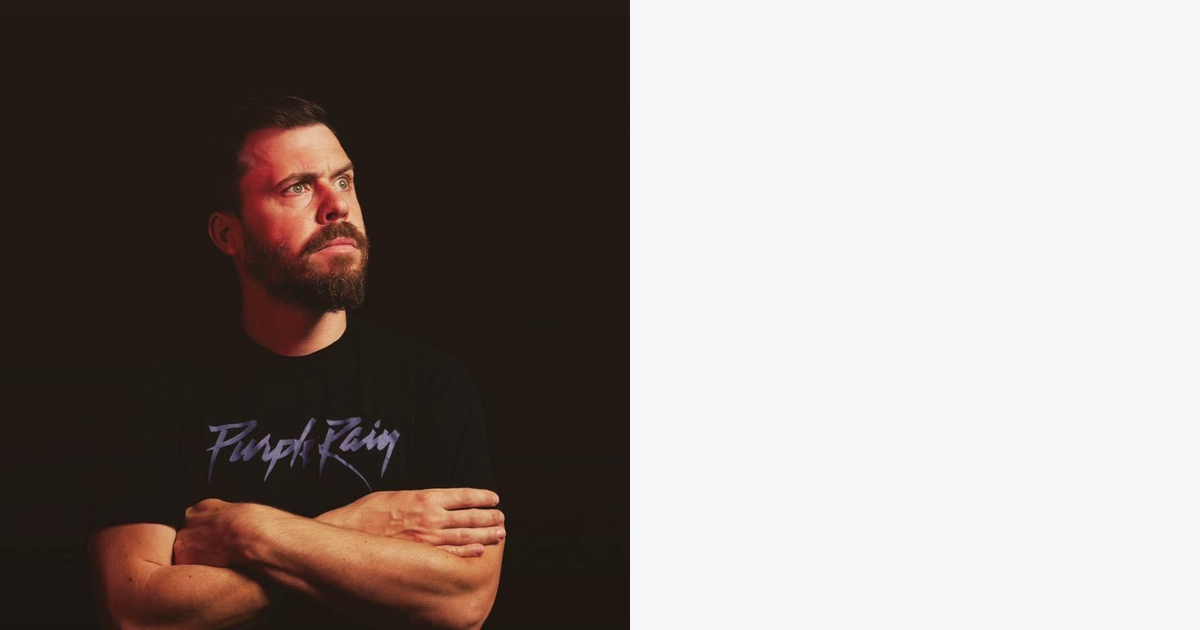
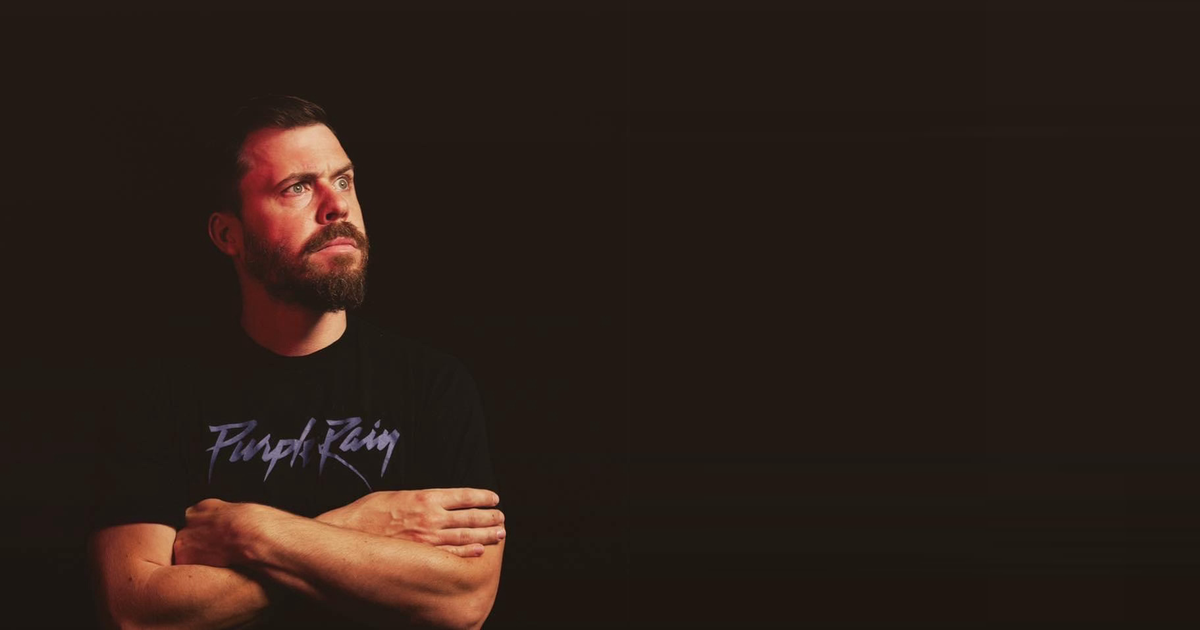
OG: full-bleed photo with extended dark backdrop

diff --git a/chapters/01-meta.html b/chapters/01-meta.html
@@ -16,7 +16,7 @@
   <meta property="og:title" content="Architecting Meta's Support — Paul Petrowsky">
   <meta property="og:description" content="A five year focus on Integrity and support — from individual resolution flows to the AI assistant rolling out to billions.">
   <meta property="og:url" content="https://paulpetrowsky.com/chapters/01-meta.html">
-  <meta property="og:image" content="https://paulpetrowsky.com/og-image.png?v=4">
+  <meta property="og:image" content="https://paulpetrowsky.com/og-image.png?v=5">
   <meta property="og:image:width" content="1200">
   <meta property="og:image:height" content="630">
   <meta property="og:image:alt" content="Paul Petrowsky — Principal Product Designer at Meta.">
@@ -25,7 +25,7 @@
   <meta name="twitter:card" content="summary_large_image">
   <meta name="twitter:title" content="Architecting Meta's Support — Paul Petrowsky">
   <meta name="twitter:description" content="A five year focus on Integrity and support across the largest social platforms in the world.">
-  <meta name="twitter:image" content="https://paulpetrowsky.com/og-image.png?v=4">
+  <meta name="twitter:image" content="https://paulpetrowsky.com/og-image.png?v=5">
 
   <meta name="theme-color" content="#F6F6F8">
 

diff --git a/index.html b/index.html
@@ -14,7 +14,7 @@
   <meta property="og:title" content="Paul Petrowsky: Design Lead">
   <meta property="og:description" content="Design Lead and co-founder. Principal Product Designer at Meta. Co-founder of SNACKS. Over twenty years in design.">
   <meta property="og:url" content="https://paulpetrowsky.com/">
-  <meta property="og:image" content="https://paulpetrowsky.com/og-image.png?v=4">
+  <meta property="og:image" content="https://paulpetrowsky.com/og-image.png?v=5">
   <meta property="og:image:width" content="1200">
   <meta property="og:image:height" content="630">
   <meta property="og:image:alt" content="Paul Petrowsky — Principal Product Designer at Meta. Co-founder of SNACKS.">
@@ -24,7 +24,7 @@
   <meta name="twitter:card" content="summary_large_image">
   <meta name="twitter:title" content="Paul Petrowsky: Design Lead">
   <meta name="twitter:description" content="Principal Product Designer at Meta. Co-founder of SNACKS. Over twenty years in design.">
-  <meta name="twitter:image" content="https://paulpetrowsky.com/og-image.png?v=4">
+  <meta name="twitter:image" content="https://paulpetrowsky.com/og-image.png?v=5">
   <meta name="twitter:image:alt" content="Paul Petrowsky — Principal Product Designer at Meta. Co-founder of SNACKS.">
 
   <!-- Match the cream paper so the browser chrome blends into the page;

diff --git a/work.html b/work.html
@@ -14,7 +14,7 @@
   <meta property="og:title" content="Work — Paul Petrowsky">
   <meta property="og:description" content="Selected case studies across twenty years of design — Random House, Dom & Tom, AIG, OU Bound, BCG, Gemini Mobile, and Meta.">
   <meta property="og:url" content="https://paulpetrowsky.com/work.html">
-  <meta property="og:image" content="https://paulpetrowsky.com/og-image.png?v=4">
+  <meta property="og:image" content="https://paulpetrowsky.com/og-image.png?v=5">
   <meta property="og:image:width" content="1200">
   <meta property="og:image:height" content="630">
   <meta property="og:image:alt" content="Paul Petrowsky — Principal Product Designer at Meta. Co-founder of SNACKS.">
@@ -23,7 +23,7 @@
   <meta name="twitter:card" content="summary_large_image">
   <meta name="twitter:title" content="Work — Paul Petrowsky">
   <meta name="twitter:description" content="Selected case studies across twenty years of design.">
-  <meta name="twitter:image" content="https://paulpetrowsky.com/og-image.png?v=4">
+  <meta name="twitter:image" content="https://paulpetrowsky.com/og-image.png?v=5">
 
   <meta name="theme-color" content="#F6F6F8">
 